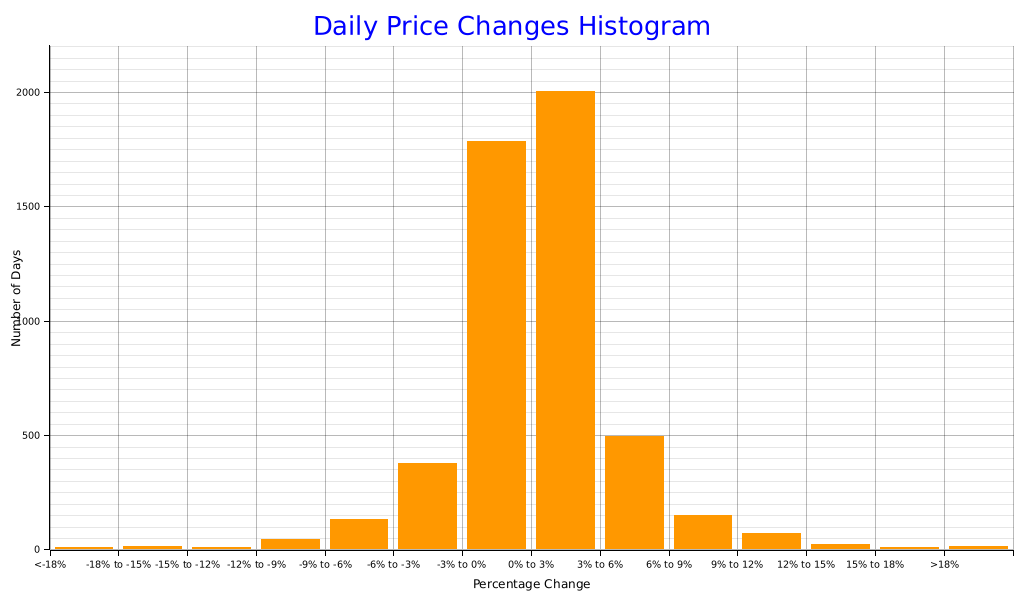
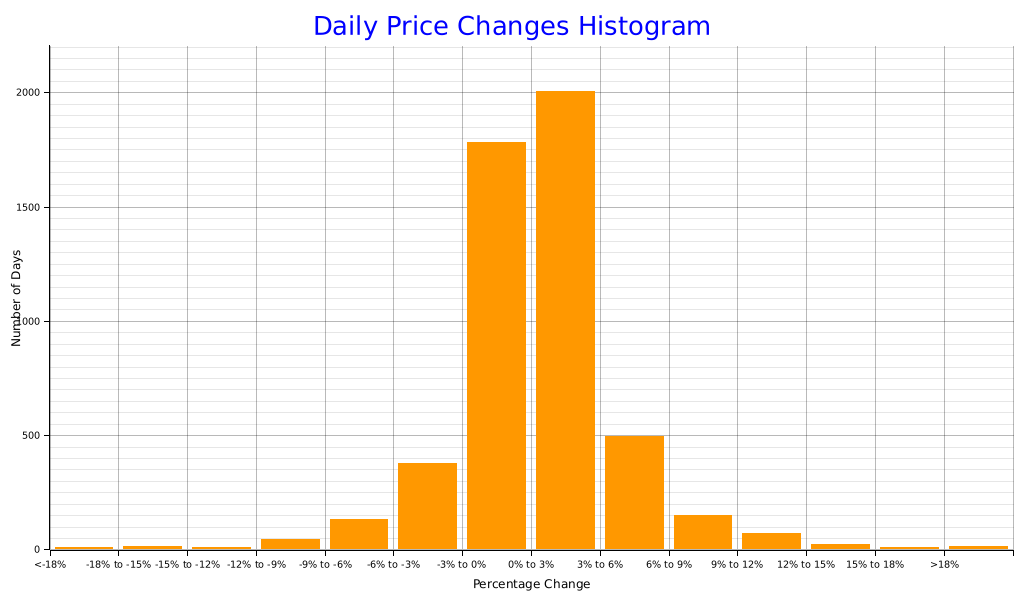
deploy: 95af0be866467ff5f422aab75c9020c8c4274433

diff --git a/index.html b/index.html
@@ -34,7 +34,7 @@
           <td>94,762.07</td>
           <td>87,399.40</td>
           <td></td>
-          <td>377,453,117,440.0</td>
+          <td>377,350,127,616.0</td>
         </tr>
         <tr>
           <td class='yearly-summary-year'>2025</td>
@@ -194,11 +194,11 @@
         </tr>
         <tr>
           <td>-3% to 0%</td>
-          <td>1784</td>
+          <td>1783</td>
         </tr>
         <tr>
           <td>0% to 3%</td>
-          <td>2003</td>
+          <td>2004</td>
         </tr>
         <tr>
           <td>3% to 6%</td>
@@ -235,7 +235,7 @@
     <br><br>
     <a href='https://github.com/bitcoin-tools/btracker'>Link to the report codebase</a>
     <br><br>
-    This report was last updated at 2026-01-10 07:27:02.581088993 UTC.
+    This report was last updated at 2026-01-10 07:41:54.626867938 UTC.
     <br><br>
     <div class='scrollable-table'>
       <table>
@@ -259,12 +259,12 @@
             <td>90,517.79</td>
             <td>90,642.14</td>
             <td>90,317.21</td>
-            <td>90,451.02</td>
-            <td class='wma-column'>57,200.07</td>
-            <td>36.81 (0.06 %)</td>
-            <td>51,547.01 (132.4 %)</td>
+            <td>90,546.71</td>
+            <td class='wma-column'>57,200.14</td>
+            <td>36.87 (0.06 %)</td>
+            <td>51,642.70 (132.7 %)</td>
             <td>324.92 (0.3 %)</td>
-            <td>-62.07 (0.0 %)</td>
+            <td>33.61 (0.0 %)</td>
           </tr>
           <tr>
             <td>2026-01-09</td>
